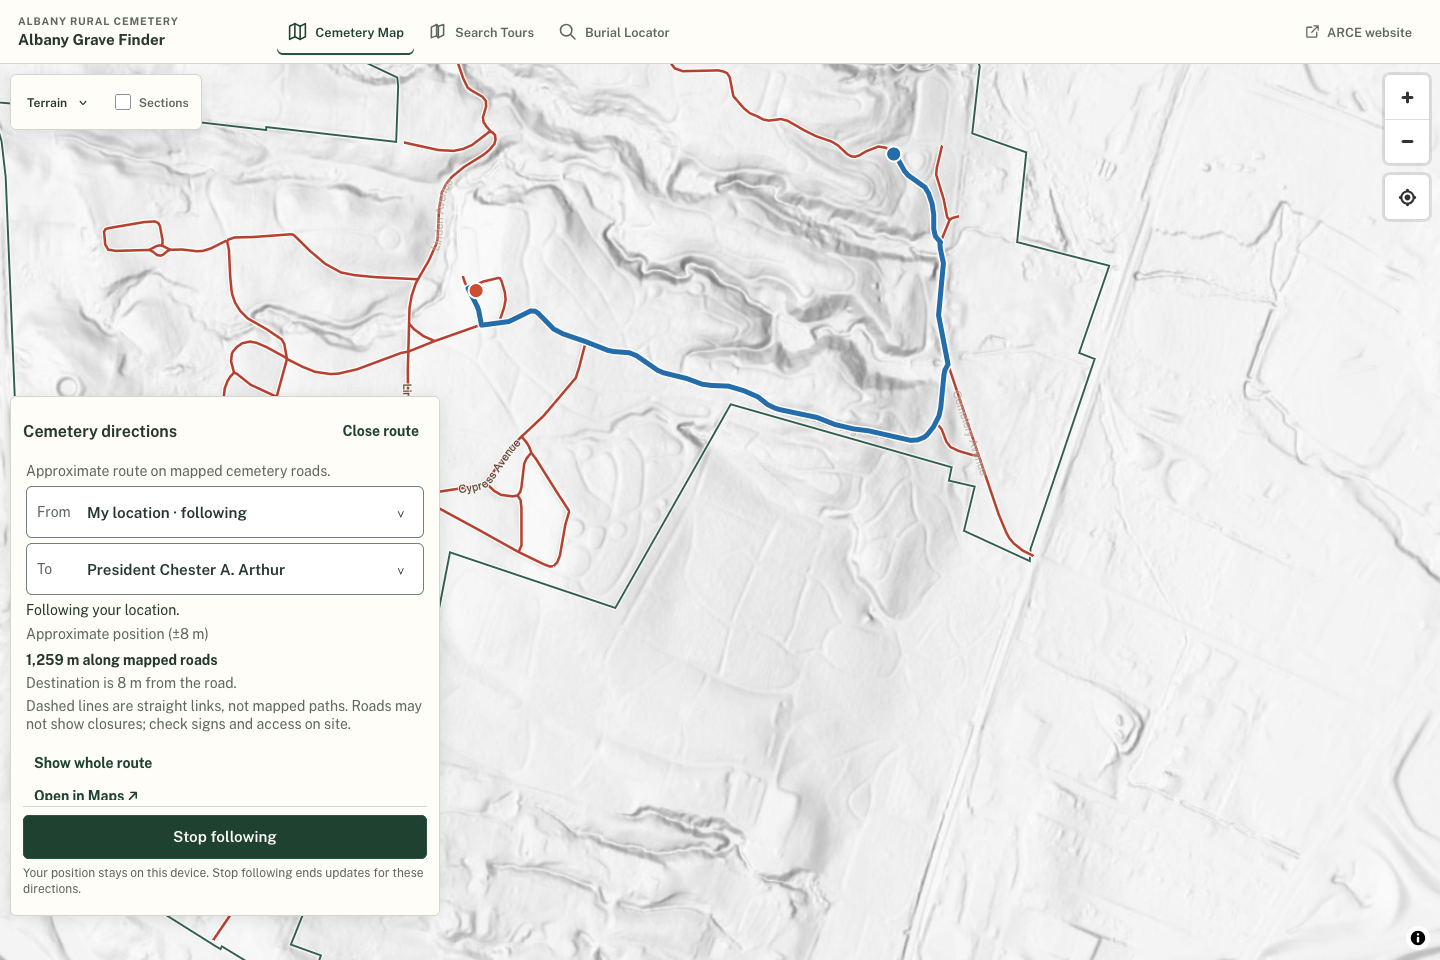
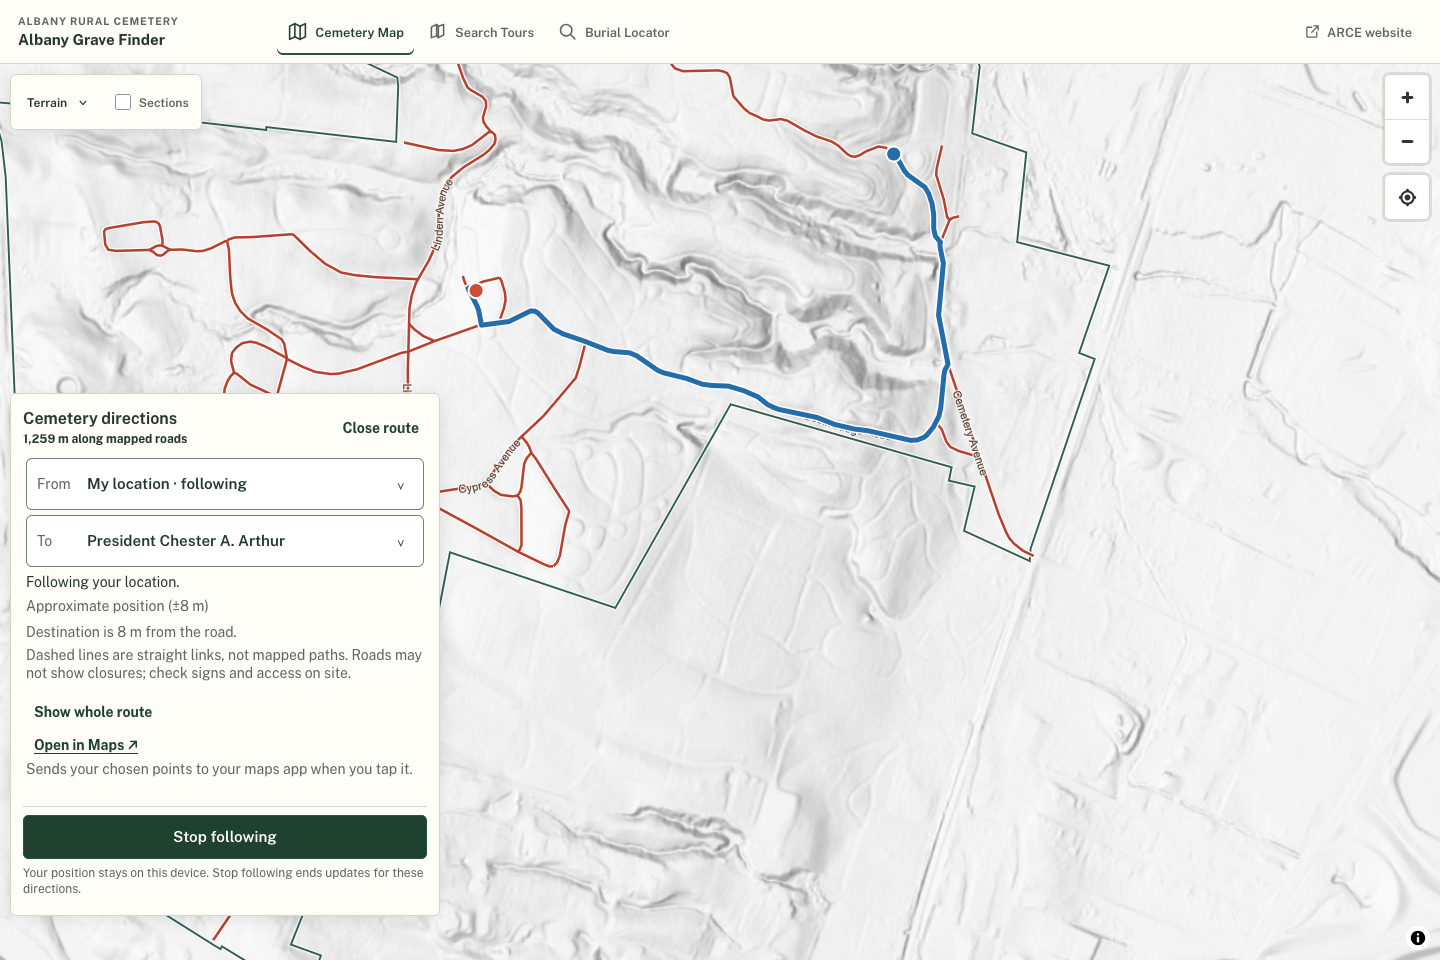
Keep route distance visible and correct compact direction layouts

diff --git a/src/features/map/RoutePanel.jsx b/src/features/map/RoutePanel.jsx
@@ -5,7 +5,6 @@ const RoutePlaces = lazy(() => import("./RoutePlaces"));
 const metres = (distance) => `${Math.round(distance).toLocaleString()} m`;
 const RouteSummary = ({ result }) => (
   <div className="map-route-result">
-    <strong>{metres(result.roadDistance)} along mapped roads</strong>
     {result.startGap > 1 ? <span>Your start is {metres(result.startGap)} from the road.</span> : null}
     {result.endGap > 1 ? <span>Destination is {metres(result.endGap)} from the road.</span> : null}
     <span>Dashed lines are straight links, not mapped paths. Roads may not show closures; check signs and access on site.</span>
@@ -53,6 +52,7 @@ const RouteFooter = ({ routing, available }) => {
 export default function RoutePanel({ routing, records = [] }) {
   const { draft, result, error, calculating } = routing;
   const titleRef = useRef(null);
+  const contentRef = useRef(null);
   const promptRef = useRef(null);
   const previousPick = useRef(null);
   const [options, setOptions] = useState(null);
@@ -63,6 +63,7 @@ export default function RoutePanel({ routing, records = [] }) {
   const pick = (endpoint) => { setOptions(null); setList(null); routing.pick(endpoint); };
   const locate = () => { setOptions(null); routing.useLocation(); restore("start"); };
   useEffect(() => { titleRef.current?.focus({ preventScroll: true }); }, []);
+  useEffect(() => { if (draft.following && contentRef.current) contentRef.current.scrollTop = 0; }, [draft.following]);
   useEffect(() => {
     if (draft.picking) promptRef.current?.focus({ preventScroll: true });
     else if (previousPick.current) document.getElementById(`route-${previousPick.current}`)?.focus({ preventScroll: true });
@@ -83,7 +84,10 @@ export default function RoutePanel({ routing, records = [] }) {
       event.stopPropagation();
     }}>
       <header>
-        <h2 id="route-title" tabIndex={-1} ref={titleRef}>Cemetery directions</h2>
+        <div>
+          <h2 id="route-title" tabIndex={-1} ref={titleRef}>Cemetery directions</h2>
+          {result ? <strong className="map-route-distance">{metres(result.roadDistance)}<span className="route-note-full"> along mapped roads</span><span className="route-note-short"> · mapped roads</span></strong> : null}
+        </div>
         <button type="button" className="text-button" onClick={routing.close}>Close route</button>
       </header>
       {draft.picking ? (
@@ -92,8 +96,8 @@ export default function RoutePanel({ routing, records = [] }) {
           <button type="button" className="text-button" onClick={routing.cancelPick}>Cancel pick</button>
         </div>
       ) : <>
-        <div className="map-route-panel__content">
-          <p className="map-route-note">Approximate route on mapped cemetery roads.</p>
+        <div className="map-route-panel__content" ref={contentRef}>
+          {!result ? <p className="map-route-note">Approximate route on mapped cemetery roads.</p> : null}
           {list ? <Suspense fallback={<p>Loading mapped places…</p>}>
             <RoutePlaces records={records} endpoint={list} onChoose={(point) => { routing.setPoint(list, point); collapse(); }} onCancel={collapse} />
           </Suspense> : ["start", "end"].map((endpoint) => <div key={endpoint}>

diff --git a/e2e/live-directions.spec.js b/e2e/live-directions.spec.js
@@ -39,13 +39,13 @@ test("explicit following updates a local route without stealing focus or announc
   await expect(panel.getByRole("button", { name: "Stop following", exact: true })).toBeVisible();
   await expect(panel.getByRole("status")).toHaveText("Following your location.");
   const status = await panel.getByRole("status").innerText();
-  const initialDistance = await panel.locator(".map-route-result strong").innerText();
+  const initialDistance = await panel.locator(".map-route-distance").innerText();
   await panel.getByRole("button", { name: /^To / }).focus();
   await page.waitForTimeout(2100);
   await deliver(page, [-73.7263, 42.7093]);
   await expect(panel.getByRole("button", { name: /^To / })).toBeFocused();
   await expect(panel.getByRole("status")).toHaveText(status);
-  await expect(panel.locator(".map-route-result strong")).not.toHaveText(initialDistance);
+  await expect(panel.locator(".map-route-distance")).not.toHaveText(initialDistance);
   await expect(panel).toContainText("±8 m");
   await panel.getByRole("button", { name: "Stop following", exact: true }).click();
   expect(await page.evaluate(() => globalThis.routeGps.watches.size)).toBe(0);
@@ -180,6 +180,7 @@ test("a valid fix outside mapped roads removes the old route and keeps the desti
 for (const [width, height, visibleMapWidth] of [[750, 342, 400], [568, 320, 200]]) {
   test(`short landscape fully shows both endpoint rows at ${width}px`, async ({ page }, testInfo) => {
     await page.setViewportSize({ width, height });
+    await installGps(page);
     const panel = await open(page);
     const content = await panel.locator(".map-route-panel__content").boundingBox();
     for (const row of [panel.getByRole("button", { name: /^From / }), panel.getByRole("button", { name: /^To / })]) {
@@ -200,6 +201,11 @@ for (const [width, height, visibleMapWidth] of [[750, 342, 400], [568, 320, 200]
       await expect(button).toBeInViewport({ ratio: 0.99 });
       expect((await button.boundingBox()).height).toBeGreaterThanOrEqual(44);
     }
+    await panel.getByRole("button", { name: "Start from my location", exact: true }).click();
+    await page.evaluate((coordinates) => globalThis.routeGps.fix({ coords: { longitude: coordinates[0], latitude: coordinates[1], accuracy: 8 }, timestamp: Date.now() }), START);
+    await panel.getByRole("button", { name: "Follow my location", exact: true }).click();
+    await deliver(page);
+    for (const row of [panel.getByRole("button", { name: /^From / }), panel.getByRole("button", { name: /^To / }), panel.locator(".map-route-distance")]) await expect(row).toBeInViewport({ ratio: 0.99 });
     await testInfo.attach(`landscape-visible-${width}`, { body: await page.screenshot(), contentType: "image/png" });
   });
 }

diff --git a/src/styles.css b/src/styles.css
@@ -1393,7 +1393,7 @@ button.secondary-button {
   left: max(10px, env(safe-area-inset-left));
   z-index: 10;
   max-width: 430px;
-  max-height: min(60%, 520px);
+  max-height: min(66%, 680px);
   display: flex;
   flex-direction: column;
   padding: 12px;
@@ -1444,3 +1444,13 @@ button.secondary-button {
  .route-note-short { display: inline; }
   .map-route-center-pick { left: calc((100% + var(--route-panel-w)) / 2); top: 42%; }
 }
+
+.map-route-distance { display: block; font-size: 0.75rem; line-height: 1.4; margin-top: 2px; }
+@media (min-width: 900px) and (min-height: 600px) { .map-route-panel { max-height: min(80%, 680px); } }
+@media (min-height: 501px) {
+  .map-route-panel__content { padding-bottom: 16px; mask-image: linear-gradient(to bottom, #000 calc(100% - 16px), transparent); -webkit-mask-image: linear-gradient(to bottom, #000 calc(100% - 16px), transparent); }
+}
+
+.map-route-panel header > div { flex: 1; min-width: 0; }
+.map-route-panel header > button { flex-shrink: 0; white-space: nowrap; }
+.map-route-endpoint__value { line-height: 1.2; }
